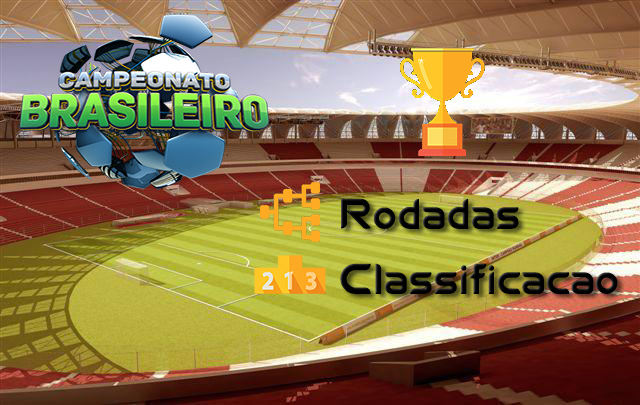
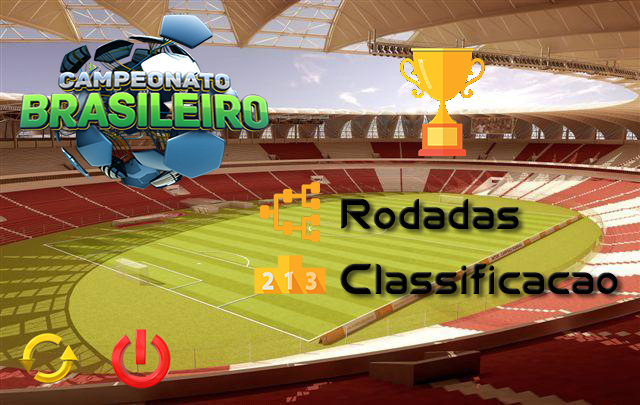
Adicao de Botoes e Implementacao

Changed region(s): [[0.1562, 0.8, 0.2812, 0.9778], [0.0312, 0.8, 0.125, 0.9481]]

diff --git a/Projeto-Taiti/src/br/com/projeto/view/TelaPrincipalMesmo.java b/Projeto-Taiti/src/br/com/projeto/view/TelaPrincipalMesmo.java
@@ -8,9 +8,7 @@ package br.com.projeto.view;
 import br.com.projeto.model.ComparadorDePontos;
 import br.com.projeto.model.Rodada;
 import br.com.projeto.model.Time;
-import java.awt.Font;
 import java.util.ArrayList;
-import java.util.Collection;
 import java.util.Collections;
 import java.util.List;
 import javax.swing.ImageIcon;
@@ -45,6 +43,15 @@ public class TelaPrincipalMesmo extends javax.swing.JFrame {
         btnClassificacao.setBorderPainted(false);
         btnClassificacao.setText(null);
         
+        btnReiniciar.setOpaque(false);
+        btnReiniciar.setContentAreaFilled(false);
+        btnReiniciar.setBorderPainted(false);
+        btnReiniciar.setText(null);
+        
+        btnDesligar.setOpaque(false);
+        btnDesligar.setContentAreaFilled(false);
+        btnDesligar.setBorderPainted(false);
+        btnDesligar.setText(null);
         
     }
     
@@ -60,12 +67,10 @@ public class TelaPrincipalMesmo extends javax.swing.JFrame {
         this.clubes = new ArrayList<>();
         for(Time t : times){
             clubes.add(t);
-        }
-        
+        }        
         comparador = new ComparadorDePontos();
-        Collections.sort(clubes, comparador); 
+        Collections.sort(clubes, comparador);  
         
-        System.out.println(clubes.get(0).getNome());
         lbIcon.setIcon(clubes.get(0).getEscudo());
     }
 
@@ -83,6 +88,8 @@ public class TelaPrincipalMesmo extends javax.swing.JFrame {
         lbFundo = new javax.swing.JLabel();
         btnRodadas = new javax.swing.JButton();
         btnClassificacao = new javax.swing.JButton();
+        btnReiniciar = new javax.swing.JButton();
+        btnDesligar = new javax.swing.JButton();
 
         setDefaultCloseOperation(javax.swing.WindowConstants.EXIT_ON_CLOSE);
 
@@ -103,32 +110,57 @@ public class TelaPrincipalMesmo extends javax.swing.JFrame {
             }
         });
 
+        btnReiniciar.addActionListener(new java.awt.event.ActionListener() {
+            public void actionPerformed(java.awt.event.ActionEvent evt) {
+                btnReiniciarActionPerformed(evt);
+            }
+        });
+
+        btnDesligar.addActionListener(new java.awt.event.ActionListener() {
+            public void actionPerformed(java.awt.event.ActionEvent evt) {
+                btnDesligarActionPerformed(evt);
+            }
+        });
+
         javax.swing.GroupLayout layout = new javax.swing.GroupLayout(getContentPane());
         getContentPane().setLayout(layout);
         layout.setHorizontalGroup(
             layout.createParallelGroup(javax.swing.GroupLayout.Alignment.LEADING)
             .addGroup(layout.createSequentialGroup()
                 .addGap(250, 250, 250)
-                .addComponent(btnRodadas, javax.swing.GroupLayout.PREFERRED_SIZE, 290, javax.swing.GroupLayout.PREFERRED_SIZE))
+                .addComponent(btnClassificacao, javax.swing.GroupLayout.PREFERRED_SIZE, 370, javax.swing.GroupLayout.PREFERRED_SIZE))
+            .addGroup(layout.createSequentialGroup()
+                .addGap(13, 13, 13)
+                .addComponent(btnReiniciar, javax.swing.GroupLayout.PREFERRED_SIZE, 70, javax.swing.GroupLayout.PREFERRED_SIZE))
             .addGroup(layout.createSequentialGroup()
                 .addGap(250, 250, 250)
-                .addComponent(btnClassificacao, javax.swing.GroupLayout.PREFERRED_SIZE, 370, javax.swing.GroupLayout.PREFERRED_SIZE))
+                .addComponent(btnRodadas, javax.swing.GroupLayout.PREFERRED_SIZE, 290, javax.swing.GroupLayout.PREFERRED_SIZE))
+            .addGroup(layout.createSequentialGroup()
+                .addGap(103, 103, 103)
+                .addComponent(btnDesligar, javax.swing.GroupLayout.PREFERRED_SIZE, 70, javax.swing.GroupLayout.PREFERRED_SIZE))
+            .addComponent(lbFundo)
             .addGroup(layout.createSequentialGroup()
                 .addGap(410, 410, 410)
                 .addComponent(lbIcon, javax.swing.GroupLayout.PREFERRED_SIZE, 70, javax.swing.GroupLayout.PREFERRED_SIZE))
-            .addComponent(lbFundo)
         );
         layout.setVerticalGroup(
             layout.createParallelGroup(javax.swing.GroupLayout.Alignment.LEADING)
             .addGroup(layout.createSequentialGroup()
-                .addGap(180, 180, 180)
-                .addComponent(btnRodadas, javax.swing.GroupLayout.PREFERRED_SIZE, 60, javax.swing.GroupLayout.PREFERRED_SIZE)
-                .addGap(10, 10, 10)
+                .addGap(250, 250, 250)
                 .addComponent(btnClassificacao, javax.swing.GroupLayout.PREFERRED_SIZE, 60, javax.swing.GroupLayout.PREFERRED_SIZE))
+            .addGroup(layout.createSequentialGroup()
+                .addGap(320, 320, 320)
+                .addComponent(btnReiniciar, javax.swing.GroupLayout.PREFERRED_SIZE, 70, javax.swing.GroupLayout.PREFERRED_SIZE))
+            .addGroup(layout.createSequentialGroup()
+                .addGap(180, 180, 180)
+                .addComponent(btnRodadas, javax.swing.GroupLayout.PREFERRED_SIZE, 60, javax.swing.GroupLayout.PREFERRED_SIZE))
+            .addGroup(layout.createSequentialGroup()
+                .addGap(320, 320, 320)
+                .addComponent(btnDesligar, javax.swing.GroupLayout.PREFERRED_SIZE, 70, javax.swing.GroupLayout.PREFERRED_SIZE))
+            .addComponent(lbFundo)
             .addGroup(layout.createSequentialGroup()
                 .addGap(70, 70, 70)
                 .addComponent(lbIcon, javax.swing.GroupLayout.PREFERRED_SIZE, 70, javax.swing.GroupLayout.PREFERRED_SIZE))
-            .addComponent(lbFundo)
         );
 
         pack();
@@ -144,6 +176,18 @@ public class TelaPrincipalMesmo extends javax.swing.JFrame {
     private void btnClassificacaoActionPerformed(java.awt.event.ActionEvent evt) {//GEN-FIRST:event_btnClassificacaoActionPerformed
         TelaClassificacao classificacao = new TelaClassificacao(times);
     }//GEN-LAST:event_btnClassificacaoActionPerformed
+
+    private void btnReiniciarActionPerformed(java.awt.event.ActionEvent evt) {//GEN-FIRST:event_btnReiniciarActionPerformed
+        TelaInicarCampeonato principal = new TelaInicarCampeonato();
+        principal.setAlwaysOnTop(false);
+        principal.setVisible(true);
+        principal.setLocationRelativeTo(null);
+        this.dispose();
+    }//GEN-LAST:event_btnReiniciarActionPerformed
+
+    private void btnDesligarActionPerformed(java.awt.event.ActionEvent evt) {//GEN-FIRST:event_btnDesligarActionPerformed
+        this.dispose();
+    }//GEN-LAST:event_btnDesligarActionPerformed
 
     /**
      * @param args the command line arguments
@@ -182,6 +226,8 @@ public class TelaPrincipalMesmo extends javax.swing.JFrame {
 
     // Variables declaration - do not modify//GEN-BEGIN:variables
     private javax.swing.JButton btnClassificacao;
+    private javax.swing.JButton btnDesligar;
+    private javax.swing.JButton btnReiniciar;
     private javax.swing.JButton btnRodadas;
     private javax.swing.JLabel lbFundo;
     private javax.swing.JLabel lbIcon;

diff --git a/Projeto-Taiti/src/br/com/projeto/view/TelaInicarCampeonato.java b/Projeto-Taiti/src/br/com/projeto/view/TelaInicarCampeonato.java
@@ -9,6 +9,7 @@ import br.com.projeto.model.ComparadorDePontos;
 import br.com.projeto.model.Rodada;
 import br.com.projeto.model.Time;
 import java.awt.Color;
+import java.awt.Font;
 import java.io.File;
 import java.io.FileInputStream;
 import java.io.FileNotFoundException;
@@ -22,6 +23,7 @@ import java.util.TimerTask;
 import java.util.logging.Level;
 import java.util.logging.Logger;
 import javax.swing.ImageIcon;
+import javax.swing.JLabel;
 import javax.swing.JOptionPane;
 
 /**
@@ -176,12 +178,15 @@ public class TelaInicarCampeonato extends javax.swing.JFrame {
 
     private void btnInciarActionPerformed(java.awt.event.ActionEvent evt) {//GEN-FIRST:event_btnInciarActionPerformed
         btnInciar.setEnabled(false);
+        JLabel t = new JLabel();
+        Font f = InicioProjeto.getFonte(18);
+        t.setFont(f);
         try{
-            this.numeroRodadas = Integer.valueOf(JOptionPane.showInputDialog("Quantas rodadas você quer simular?"));
+            t.setText("Quantas rodadas voce quer simular?");            
+            this.numeroRodadas = Integer.valueOf(JOptionPane.showInputDialog(t));
             if(this.numeroRodadas<1){
                 throw new Exception();
-            }
-            
+            }  
                 java.util.Timer timer = null;  
                 if (timer == null) {  
                     timer = new java.util.Timer();  
@@ -190,8 +195,7 @@ public class TelaInicarCampeonato extends javax.swing.JFrame {
                             try {                        
                                 if(i <= 100){
                                     pgLoading.setValue(soma());  
-                                    if(soma()<=100){
-
+                                    if(soma()<=100){                                       
                                         pgLoading.setString("Simulando Rodadas...  " +i+"%");
                                     }
                                     pgLoading.isIndeterminate();                            
@@ -208,10 +212,14 @@ public class TelaInicarCampeonato extends javax.swing.JFrame {
                     timer.scheduleAtFixedRate(tarefa, TEMPO, TEMPO);  
                 }
         }catch(IllegalArgumentException erro){
-            JOptionPane.showMessageDialog(null, "Número de rodadas inválido!");
+            t.setText("Número de rodadas inválido!");
+            t.setForeground(Color.red);
+            JOptionPane.showMessageDialog(null, t);
             btnInciar.setEnabled(true);
         }catch(Exception erro){
-            JOptionPane.showMessageDialog(null, "Número inválido, o campeonato deve ter pelo menos uma rodada!");
+            t.setText("Número inválido, o campeonato deve ter pelo menos uma rodada!");
+            t.setForeground(Color.red);
+            JOptionPane.showMessageDialog(null, t);
             btnInciar.setEnabled(true);
         }
     }//GEN-LAST:event_btnInciarActionPerformed

diff --git a/Projeto-Taiti/src/br/com/projeto/view/TelaLoading.java b/Projeto-Taiti/src/br/com/projeto/view/TelaLoading.java
@@ -118,7 +118,7 @@ public class TelaLoading extends javax.swing.JFrame {
         pgLoading.setBackground(null);
         pgLoading.setForeground(null);
 
-        jLabel1.setIcon(new javax.swing.ImageIcon(getClass().getResource("/br/com/projeto/image/loagin.jpg"))); // NOI18N
+        jLabel1.setIcon(new javax.swing.ImageIcon(getClass().getResource("/br/com/projeto/image/loading.jpg"))); // NOI18N
 
         javax.swing.GroupLayout layout = new javax.swing.GroupLayout(getContentPane());
         getContentPane().setLayout(layout);

diff --git a/Projeto-Taiti/src/br/com/projeto/view/TelaClassificacao.java b/Projeto-Taiti/src/br/com/projeto/view/TelaClassificacao.java
@@ -90,7 +90,6 @@ public class TelaClassificacao extends JFrame{
         for(Time t: clubes){
             this.times.add(t);
         }
-        System.out.println(times.get(0).getNome());
         GridLayout layout = new GridLayout(21, 11, 1, 1);
         this.setLayout(layout);
         ComparadorDePontos comparador = new ComparadorDePontos();
